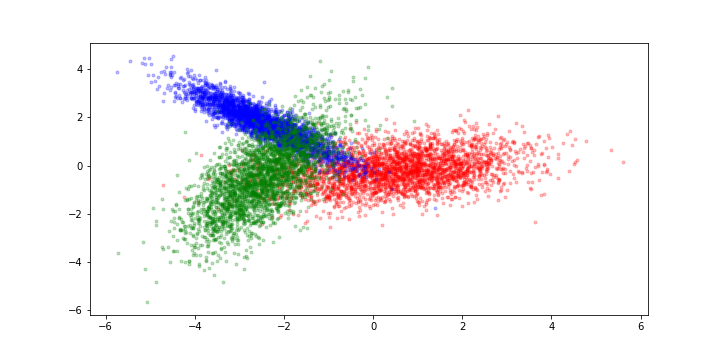
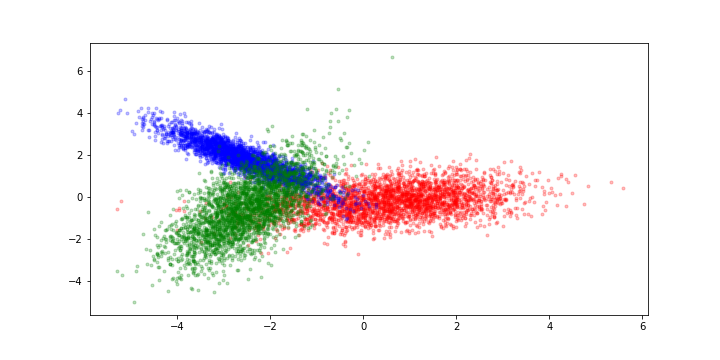
Include control task 1.8

diff --git a/statistics/src/1-8-multivariate-gaussians.py b/statistics/src/1-8-multivariate-gaussians.py
@@ -1,0 +1,28 @@
+# Imports
+import os
+import matplotlib.pyplot as plt
+import numpy as np
+from scipy.stats import multivariate_normal
+
+# Constructr Multivariate Gaussian based on parameter
+mu = [175, 42, 78]
+cov = [
+    [6, 2.68, 6.62],
+    [2.68, 1.48, 3.07],
+    [6.62, 3.07, 18]
+]
+mvn = multivariate_normal(mean=mu, cov=cov)
+
+# Draw a sample
+samples = mvn.rvs(100)
+x, y, z = samples.T
+
+# plot the samples
+f, axs = plt.subplots(1,3)
+axs[0].scatter(x, y)
+axs[0].set_title("Height vs Shoe size")
+axs[1].scatter(x, z)
+axs[1].set_title("Height vs Weight")
+axs[2].scatter(y, z)
+axs[2].set_title("Shoe size vs Weight")
+plt.savefig("./results/1-8-multivariate-gaussians.png");
